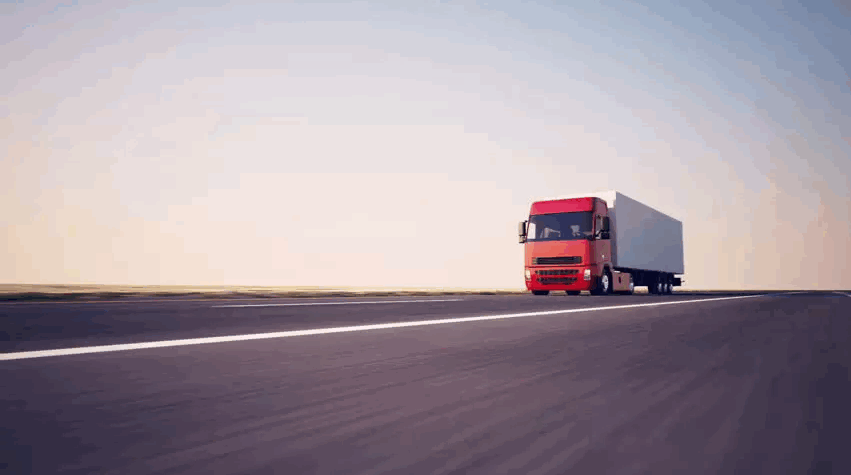
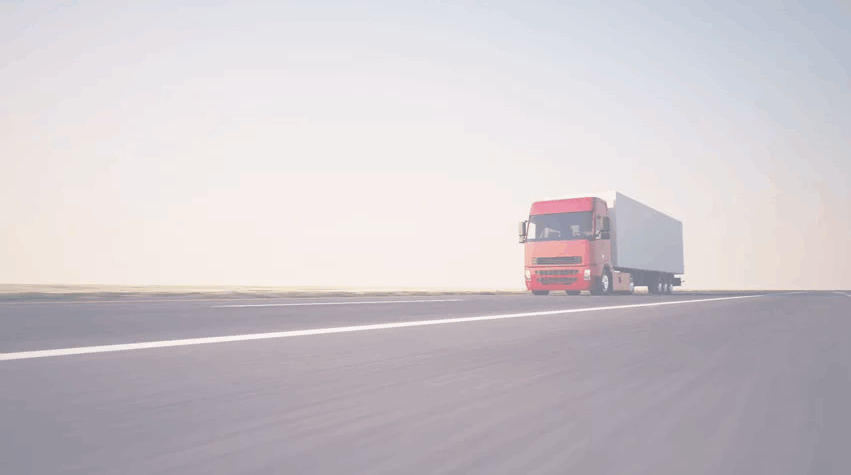
Changed background

diff --git a/CargoDispath/Content/Site.css b/CargoDispath/Content/Site.css
@@ -5,10 +5,11 @@
 }
 
 body {
-    height: 100vh;
     background-image: url('../content/Images/road.png');
     -webkit-background-size: cover;
     background-size: cover;
+    background-repeat: no-repeat;
+    background-attachment: fixed;
 }
 
 /* Override the default bootstrap behavior where horizontal description lists 
